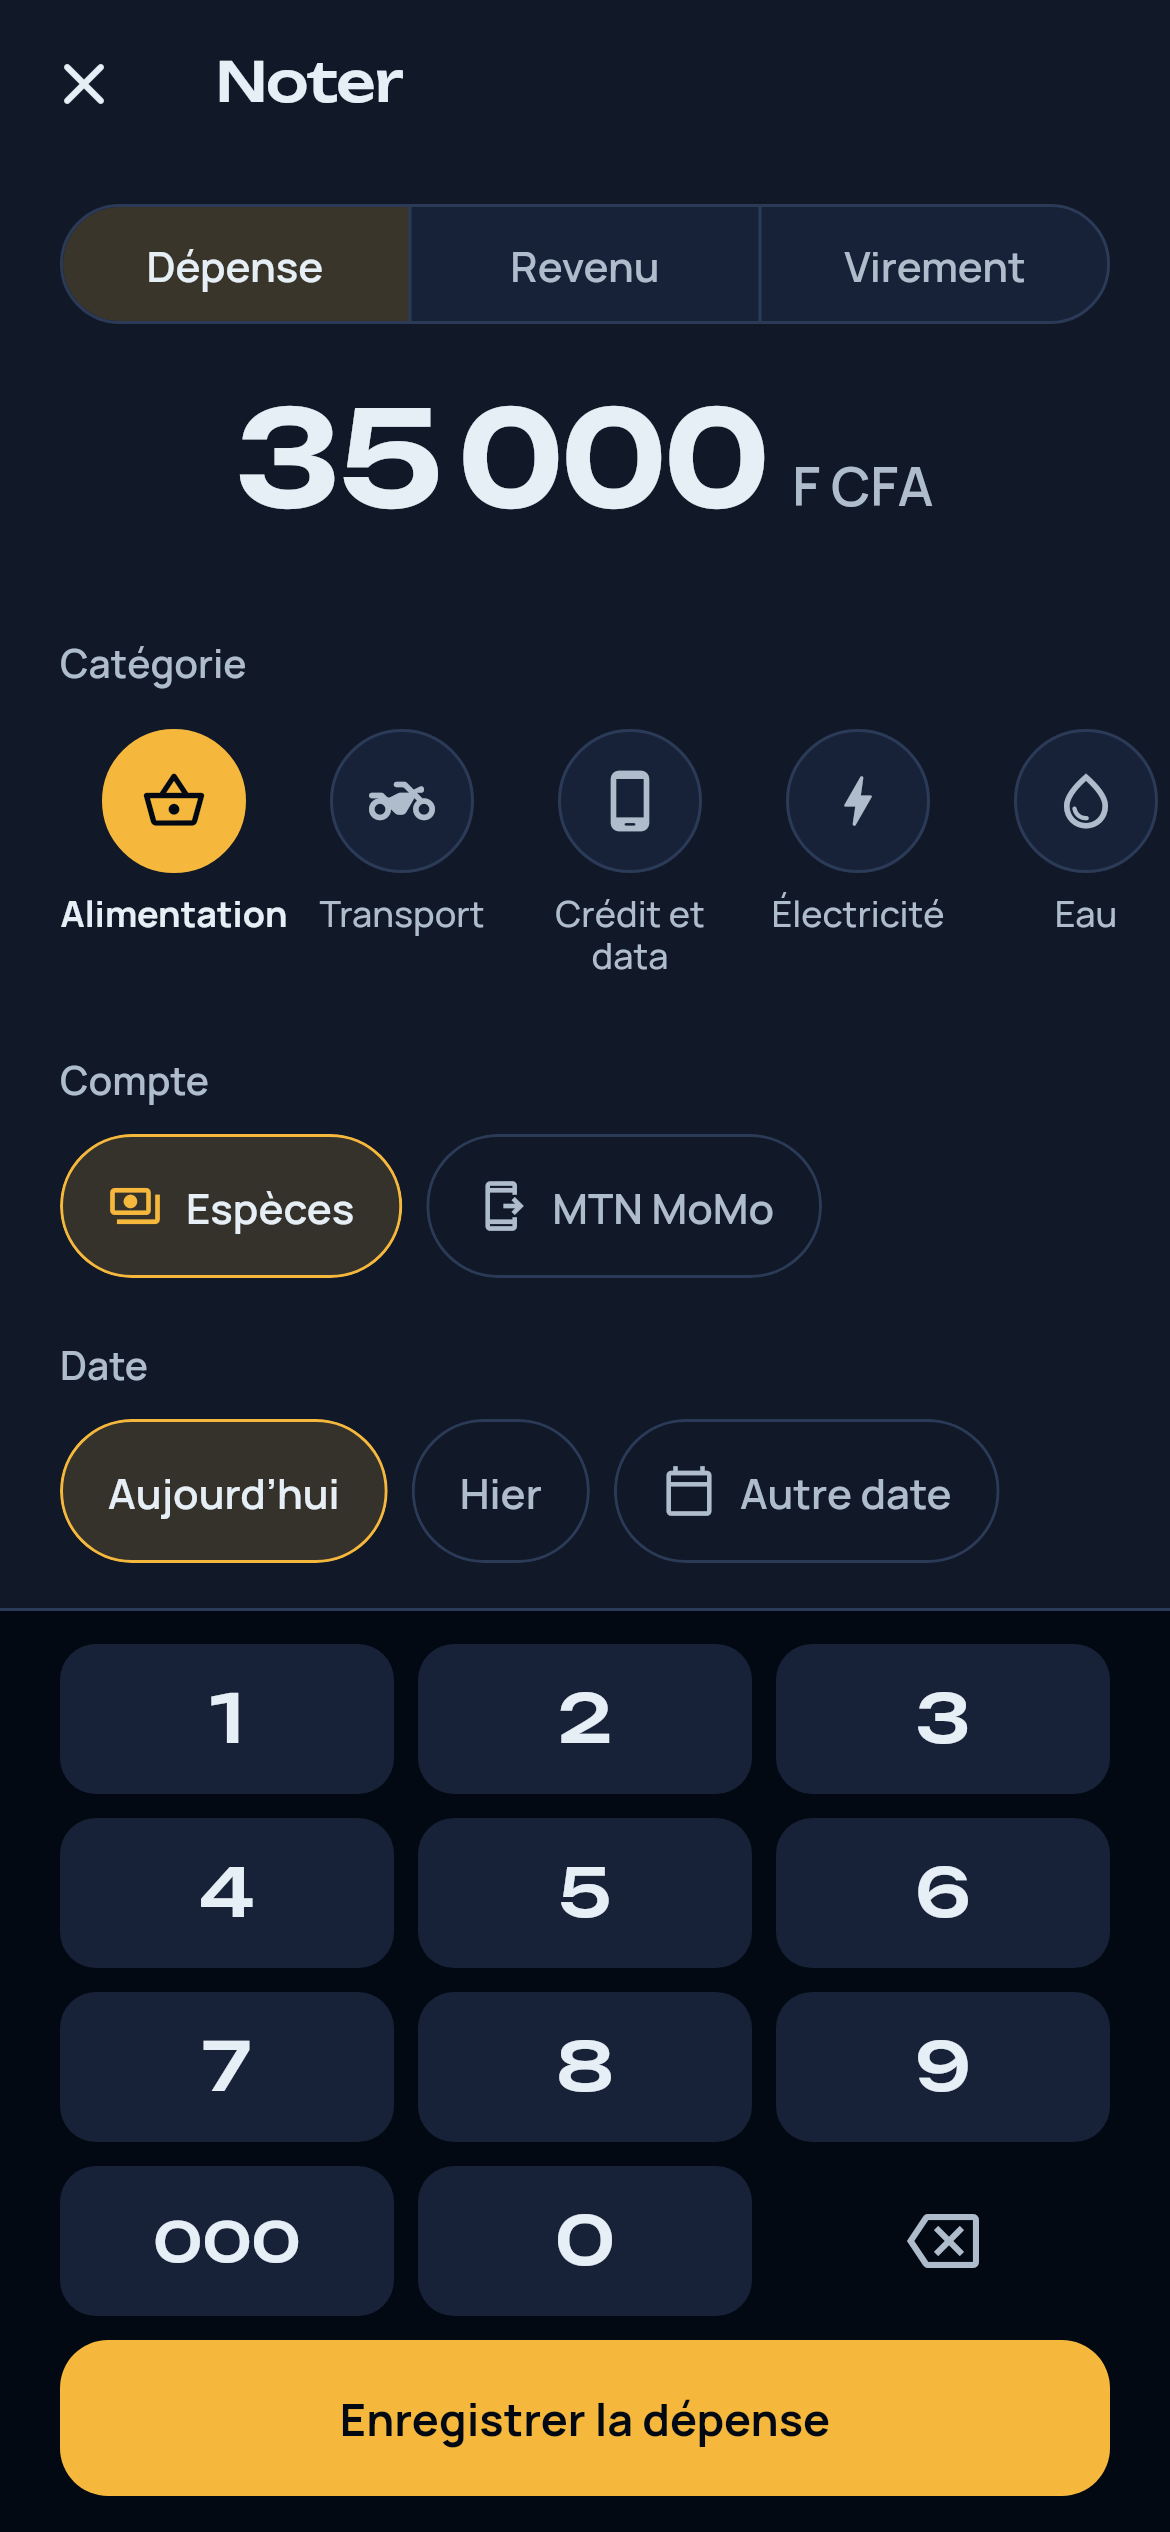
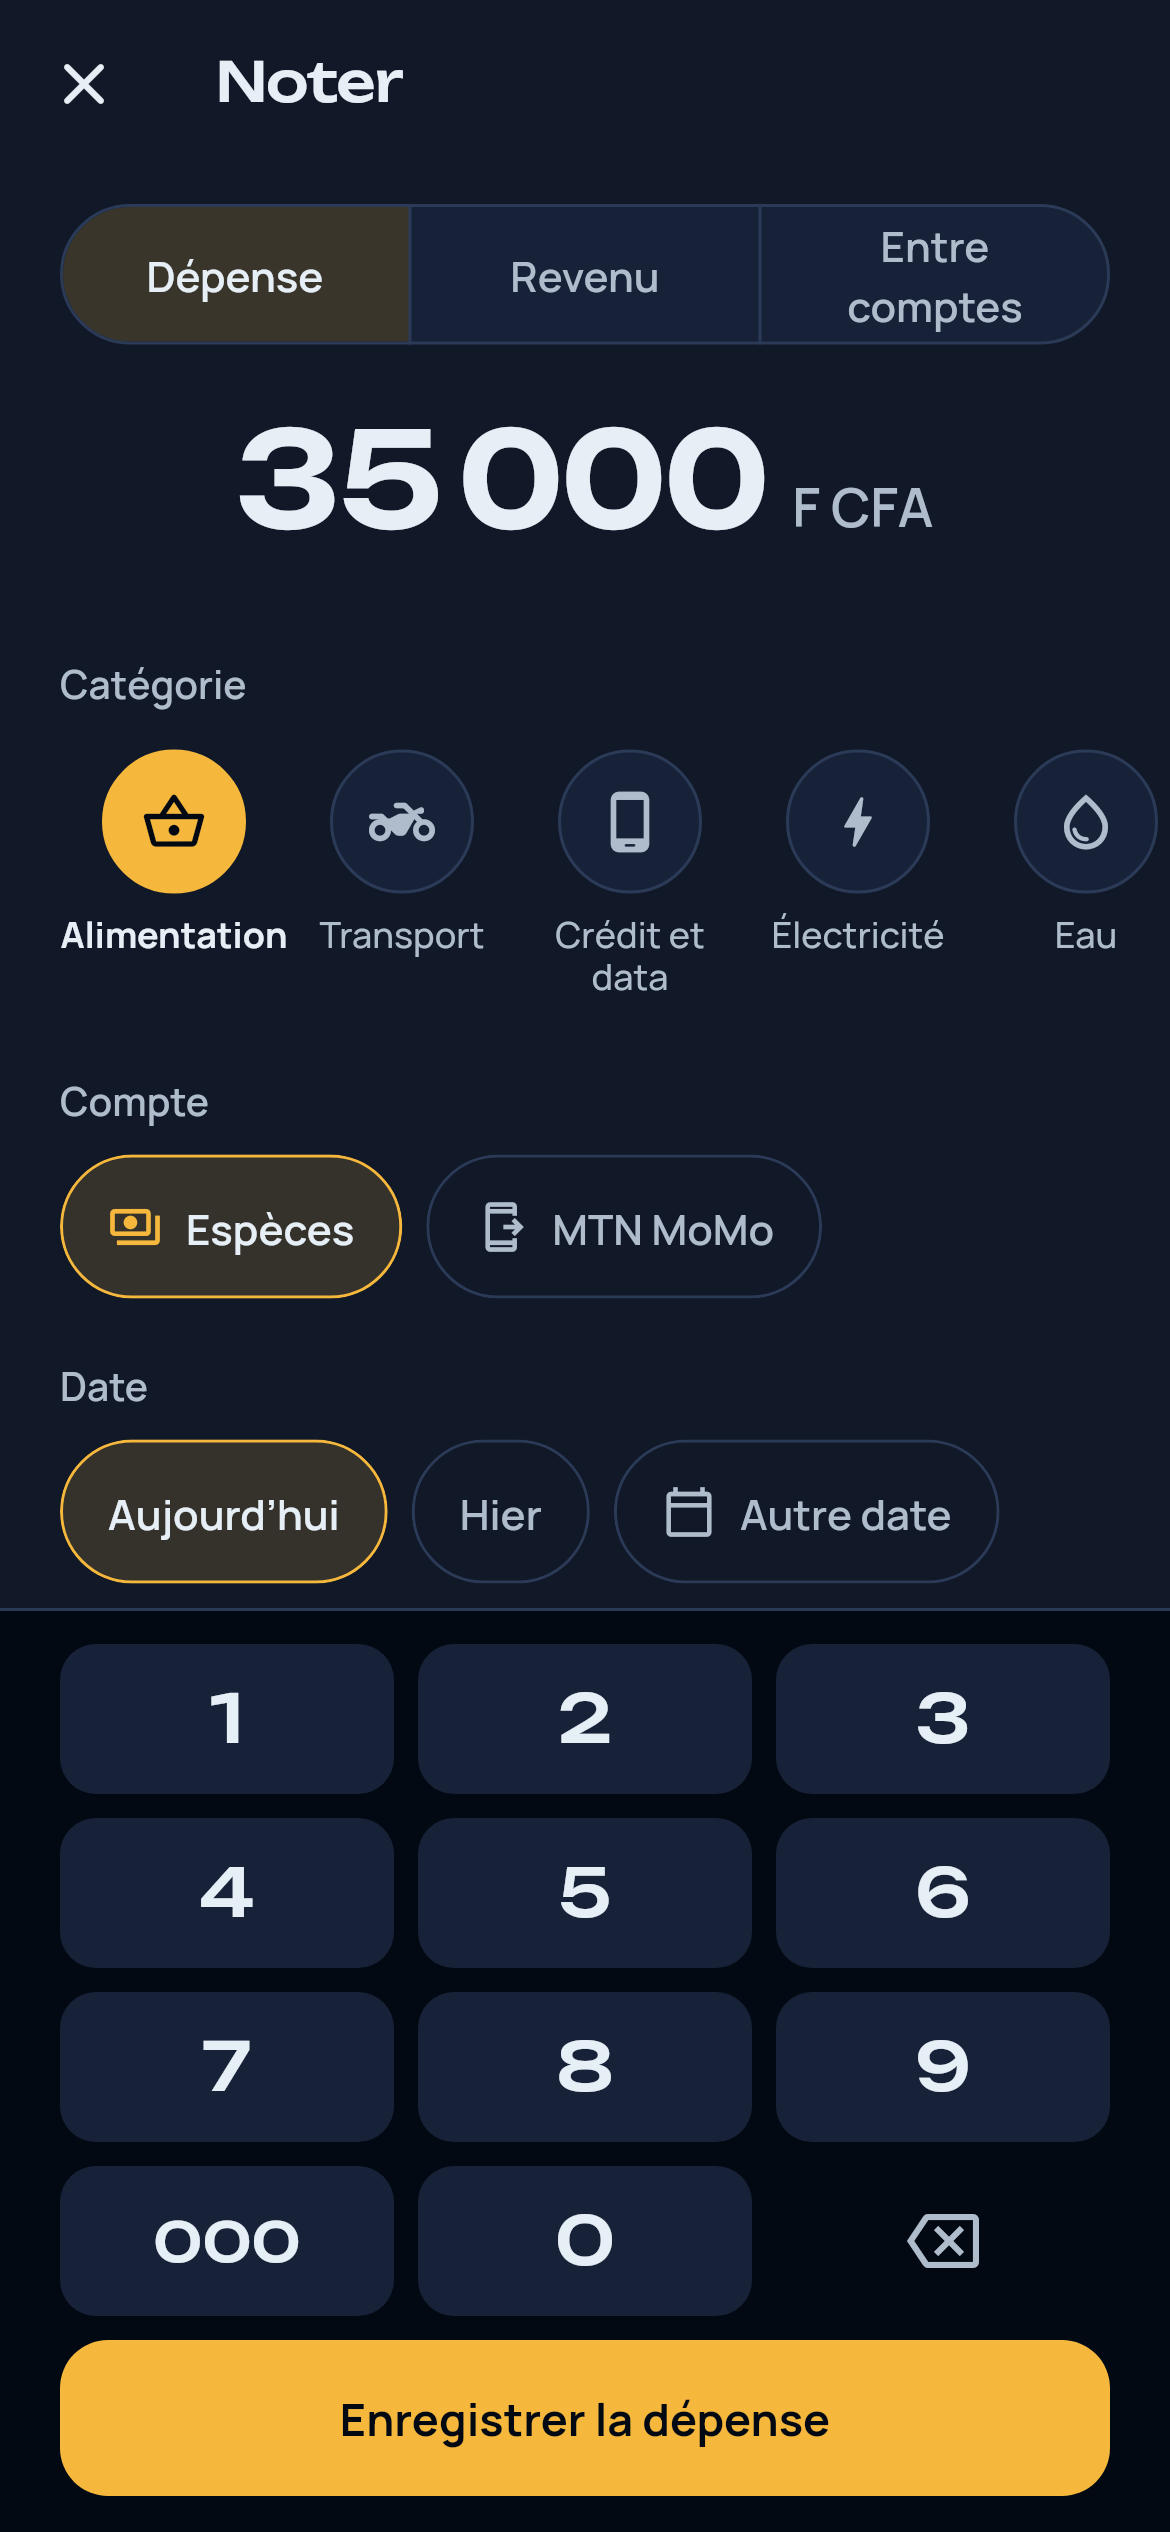
feat(depenses): « Entre comptes » au lieu de « Virement »
Le premier usage réel l'a montré : « Virement » se lit comme un envoi
bancaire à quelqu'un d'autre. Les mouvements entre ses propres comptes
étaient donc notés en deux lignes, une dépense et un revenu, qui
gonflaient les sorties et les entrées du mois. Le libellé dit maintenant
que l'argent reste chez soi ; il tient sur deux lignes centrées dans le
sélecteur.

diff --git a/test/widget/expenses_flow_test.dart b/test/widget/expenses_flow_test.dart
@@ -114,12 +114,12 @@ void main() {
     expect(paragraph.didExceedMaxLines, isFalse, reason: 'le texte d’aide ne doit pas finir en « … »');
   });
 
-  testWidgets('un virement propose d’ajouter un second compte, qui s’ouvre par-dessus', (tester) async {
+  testWidgets('passer entre ses comptes propose d’ajouter un second compte, qui s’ouvre par-dessus', (tester) async {
     final app = await _openExpenses(tester);
     await tester.tap(find.text('Noter'));
     await app.settle(tester);
 
-    await tester.tap(find.text('Virement'));
+    await tester.tap(find.text('Entre comptes'));
     await app.settle(tester);
     expect(find.textContaining('ajoute d’abord un deuxième compte'), findsOneWidget);
 
@@ -134,10 +134,10 @@ void main() {
     expect(find.text('De'), findsOneWidget);
     expect(find.text('Vers'), findsOneWidget);
     await _pad(tester, ['1', '0', 'Trois zéros']);
-    await tester.tap(find.text('Enregistrer le virement'));
+    await tester.tap(find.text('Enregistrer le mouvement'));
     await app.settle(tester);
 
-    expect(find.text('Virement enregistré.'), findsOneWidget);
+    expect(find.text('Mouvement enregistré.'), findsOneWidget);
     expect(find.text('Espèces → MTN MoMo'), findsOneWidget);
     expect(find.text(formatMoney(10000, _xof)), findsWidgets, reason: 'solde du compte MoMo');
   });

diff --git a/lib/features/expenses/ui/operation_screen.dart b/lib/features/expenses/ui/operation_screen.dart
@@ -249,7 +249,11 @@ class _OperationScreenState extends ConsumerState<OperationScreen> {
                           showSelectedIcon: false,
                           segments: [
                             for (final kind in OperationKind.values)
-                              ButtonSegment(value: kind, label: Text(l10n.operationKindName(kind))),
+                              ButtonSegment(
+                                value: kind,
+                                // « Entre comptes » passe sur deux lignes : centrées, comme les autres choix.
+                                label: Text(l10n.operationKindName(kind), textAlign: TextAlign.center),
+                              ),
                           ],
                           selected: {_kind},
                           onSelectionChanged: (s) => _setKind(s.single),
